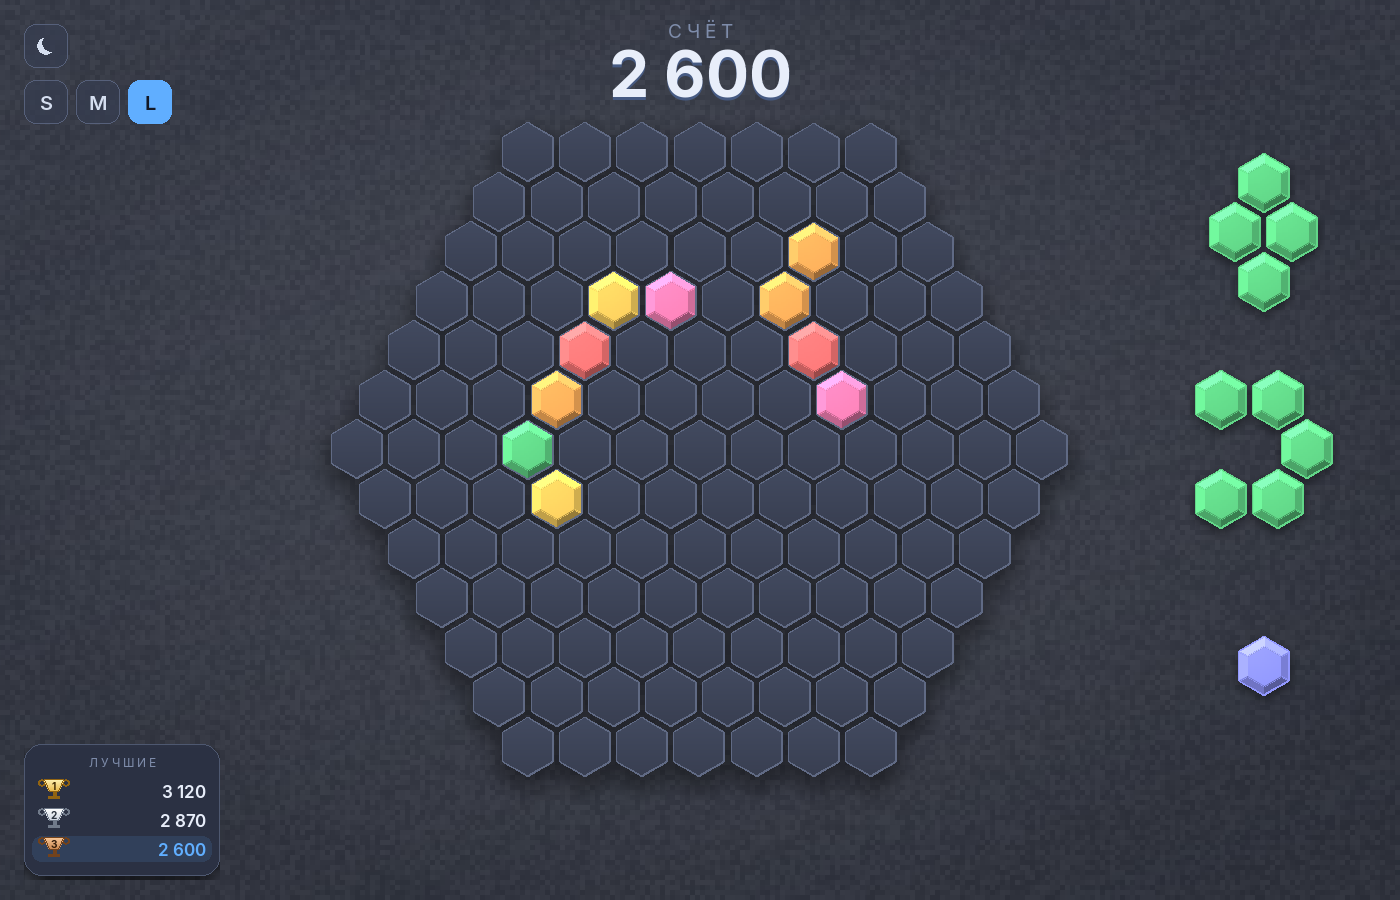
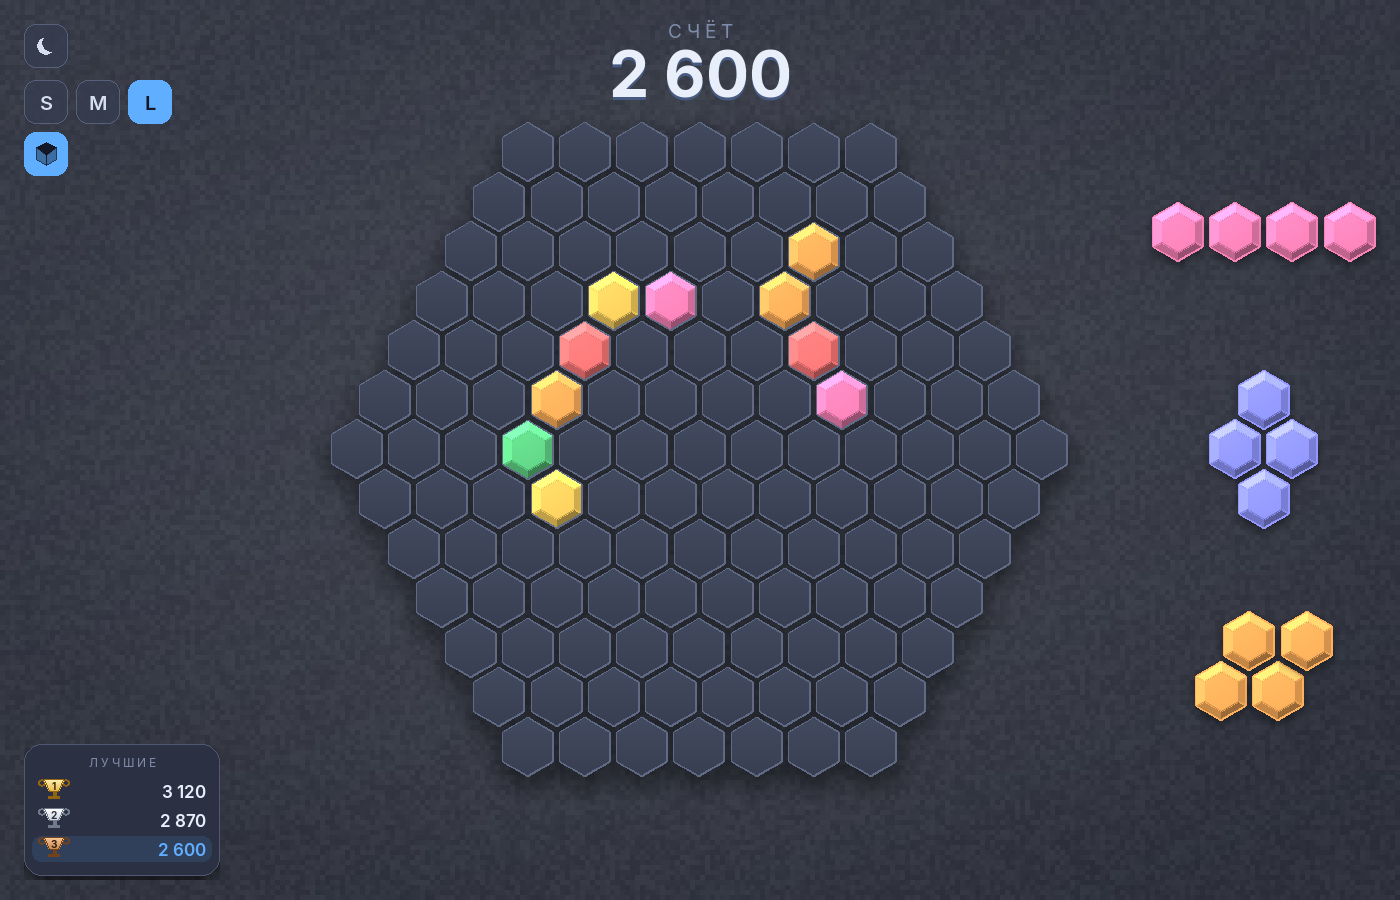
Кнопка переключения объёмных и плоских гексов
Объёмные гексы собираются втрое дороже плоских: купол и фаска рисуются
в спрайт при его сборке. На слабом ноутбуке это заметно — первый показ
фигуры в пуле даёт кадр около 12 мс вместо 7, а при переключении темы или
размера кэш собирается заново.

Под выбором размера поля появилась кнопка: куб означает объёмные гексы,
шестиугольник — прежние плоские. Партия не перезапускается, настройка
касается только картинки. Выбор сохраняется в preferences.json вместе
с темой и размером поля.

Настройка объёма переехала из константы settings.VOLUME_ENABLED в объект
config.volume по образцу board: раньше значение читалось один раз при
импорте, и переключить его на лету было нельзя. Ключ кэша спрайтов получил
режим оформления, иначе после переключения возвращались бы старые картинки.

Проверки: 224 кадра, включая переключение объёма посреди партии, сверены
с полной перерисовкой — следов нет; 12 партий с фиксированным seed дают
прежний результат (146 фигур); клик по кнопке проверен в настоящем
main.run() — режим меняется и сохраняется; сборка 180 спрайтов занимает
478 мс с объёмом против 323 мс без. Скриншоты и README обновлены.

diff --git a/classes.py b/classes.py
@@ -3,7 +3,7 @@ from copy import deepcopy
 from math import pi, sin, cos
 
 from settings import pg, W, H, HEX_MARGIN, D_PARAMS, FIGURES_DATA, BACKGROUND_STEP
-from config import board
+from config import board, volume
 from records import records
 from theme import theme
 from fonts import fonts
@@ -1214,6 +1214,98 @@ class Tab(Layer):
         caption = 'Новая игра' if action == 'new_game' else 'Выход'
         text = self._text(caption, self.button_font, text_color)
         self.surface.blit(text, text.get_rect(center=rect.center))
+
+
+class VolumeButton(Layer):
+    """Переключатель оформления гексов: объёмные или плоские.
+
+    Объёмные гексы рисуются с куполом и фаской — это красивее, но сборка
+    спрайта втрое дороже, а сам спрайт тяжелее для блита. На слабой машине
+    полезно вернуть прежний плоский вид, не трогая остальное оформление.
+
+    Кнопка стоит под выбором размера поля, в том же стиле.
+    """
+
+    SIZE = 44
+    MARGIN = 24
+    TOP = 132
+
+    def __init__(self, sc):
+        Layer.__init__(self, sc)
+        self.hovered = False
+        self.invalidate(self.bounds)
+
+    @property
+    def rect(self):
+        return pg.Rect(self.MARGIN, self.TOP, self.SIZE, self.SIZE)
+
+    @property
+    def bounds(self):
+        return self.rect.inflate(16, 16)
+
+    def hit(self, pos):
+        return self.rect.collidepoint(pos)
+
+    def set_hover(self, pos):
+        hovered = self.hit(pos)
+        if hovered != self.hovered:
+            self.hovered = hovered
+            self.invalidate(self.bounds)
+
+    def redraw(self, rect):
+        self.surface.fill((0, 0, 0, 0), rect)
+        if not rect.colliderect(self.bounds):
+            return
+
+        button = self.rect
+        active = volume.enabled
+        if active:
+            fill = theme['button_primary']
+            border = None
+            icon_color = theme['button_primary_text']
+        else:
+            fill = theme['theme_button_hover'] if self.hovered else theme['theme_button_fill']
+            border = theme['theme_button_border']
+            icon_color = theme['theme_button_icon']
+
+        pg.draw.rect(self.surface, fill, button, border_radius=12)
+        if border:
+            pg.draw.rect(self.surface, border, button, width=1, border_radius=12)
+
+        if active:
+            self._draw_cube(button.center, icon_color)
+        else:
+            self._draw_flat(button.center, icon_color)
+
+    def _draw_cube(self, center, color):
+        """Куб в изометрии: значок включённого объёма."""
+        cx, cy = center
+        size = 10
+        top = [(cx, cy - size - 2), (cx + size, cy - size / 2 - 2),
+               (cx, cy + 1), (cx - size, cy - size / 2 - 2)]
+        left = [(cx - size, cy - size / 2 - 2), (cx, cy + 1),
+                (cx, cy + size + 1), (cx - size, cy + size / 2)]
+        right = [(cx + size, cy - size / 2 - 2), (cx, cy + 1),
+                 (cx, cy + size + 1), (cx + size, cy + size / 2)]
+
+        pg.draw.polygon(self.surface, color, top)
+        # Боковые грани полупрозрачные: так куб читается даже одним цветом.
+        for face in (left, right):
+            layer = pg.Surface(self.rect.size, pg.SRCALPHA)
+            local = [(x - self.rect.x, y - self.rect.y) for x, y in face]
+            pg.draw.polygon(layer, (*color, 110), local)
+            pg.draw.polygon(layer, (*color, 200), local, 1)
+            self.surface.blit(layer, self.rect.topleft)
+
+    def _draw_flat(self, center, color):
+        """Плоский шестиугольник: значок выключенного объёма."""
+        cx, cy = center
+        radius = 12
+        points = []
+        for index in range(6):
+            angle = pi / 6 + index * pi / 3
+            points.append((cx + radius * cos(angle), cy - radius * sin(angle)))
+        pg.draw.polygon(self.surface, color, points, 2)
 
 
 class Leaderboard(Layer):

diff --git a/main.py b/main.py
@@ -5,10 +5,10 @@
 """
 from settings import pg, W, H, WINDOW_TITLE, FPS, GAME_MODE, FINAL_MODE
 from theme import theme, THEMES
-from config import board, load_preferences, save_preferences
+from config import board, volume, load_preferences, save_preferences
 from sprites import cache
 from classes import (Field, Pool, DragAndDrop, Background, Tab, Renderer,
-                     FxLayer, ThemeButton, SizeButton, Leaderboard)
+                     FxLayer, ThemeButton, SizeButton, Leaderboard, VolumeButton)
 from records import records
 
 
@@ -30,10 +30,16 @@ def apply_saved_preferences():
     saved_theme = prefs.get('theme')
     if saved_theme in THEMES:
         theme.current = THEMES[saved_theme]
+    if 'volume' in prefs:
+        volume.set(prefs['volume'])
 
 
 def store_preferences():
-    save_preferences({'board_size': board.size, 'theme': theme.name})
+    save_preferences({
+        'board_size': board.size,
+        'theme': theme.name,
+        'volume': volume.enabled,
+    })
 
 
 def run():
@@ -50,6 +56,7 @@ def run():
     fx = FxLayer(sc)
     theme_button = ThemeButton(sc)
     size_button = SizeButton(sc)
+    volume_button = VolumeButton(sc)
     leaderboard = Leaderboard(sc, tab)
 
     def build_layers():
@@ -60,7 +67,7 @@ def run():
         по её месту продолжали работать.
         """
         return [field, pool, drag_and_drop, fx, tab, leaderboard,
-                theme_button, size_button]
+                theme_button, size_button, volume_button]
 
     # Порядок слоёв задаёт порядок наложения: поле, пул, фигура под курсором,
     # эффекты, счёт и поверх всего кнопки в углу. Таблица лучших лежит над
@@ -111,6 +118,19 @@ def run():
         restart_game()
         store_preferences()
 
+    def switch_volume():
+        """Переключает объёмные гексы на плоские и обратно.
+
+        Партию не перезапускает: настройка касается только картинки, логика
+        и расстановка фигур остаются прежними. Спрайты собираются заново —
+        объём впечён в них при сборке, — поэтому кэш очищается.
+        """
+        volume.toggle()
+        cache.clear()
+        volume_button.invalidate(volume_button.bounds)
+        renderer.invalidate_all()
+        store_preferences()
+
     def quit_game():
         """Сохраняет таблицу рекордов и закрывает игру.
 
@@ -145,6 +165,7 @@ def run():
             if event.type == pg.MOUSEMOTION:
                 theme_button.set_hover(event.pos)
                 size_button.set_hover(event.pos)
+                volume_button.set_hover(event.pos)
 
             if event.type == pg.MOUSEBUTTONDOWN and event.button == pg.BUTTON_LEFT:
                 if theme_button.hit(event.pos):
@@ -153,6 +174,9 @@ def run():
                 size = size_button.hit(event.pos)
                 if size:
                     switch_size(size)
+                    continue
+                if volume_button.hit(event.pos):
+                    switch_volume()
                     continue
 
             if mode == GAME_MODE:

diff --git a/sprites.py b/sprites.py
@@ -9,9 +9,9 @@ import pygame as pg
 from math import cos, pi, sin, sqrt
 from pygame import gfxdraw
 
-from settings import (BORDER_WIDTH, HEX_MARGIN, VOLUME_DARK, VOLUME_ENABLED,
+from settings import (BORDER_WIDTH, HEX_MARGIN, VOLUME_DARK,
                       VOLUME_LIGHT, BEVEL_WIDTH, BEVEL_STRENGTH)
-from config import board
+from config import board, volume
 from utils import hexagon_points
 
 # Направление на источник света для фаски. Свет падает сверху-слева, как и
@@ -252,11 +252,10 @@ class SpriteCache:
         """
         quantized = self.quantize(scale)
         colored = state in ('figure', 'placed')
-        key = (theme.name, state, color_index if colored else None, quantized)
+        key = (theme.name, volume.name, state, color_index if colored else None, quantized)
         cached = self._cache.get(key)
         if cached is not None:
             return cached
-
         if state == 'placed':
             # Ячейка поля: обводка нейтральная, того же цвета, что у пустых
             # ячеек. Она не зависит от заливки, поэтому одинаково выглядит на
@@ -291,7 +290,7 @@ class SpriteCache:
             glow=glow,
             border_width=BORDER_WIDTH,
             # Объём получают только цветные гексы: 'placed' и 'figure'.
-            volume=VOLUME_ENABLED and state in ('placed', 'figure'),
+            volume=volume.enabled and state in ('placed', 'figure'),
         )
         self._cache[key] = sprite
         return sprite

diff --git a/config.py b/config.py
@@ -9,6 +9,8 @@ import json
 import os
 from math import cos, pi
 
+from settings import VOLUME_ENABLED
+
 BASE_DIR = os.path.dirname(os.path.abspath(__file__))
 PREFS_PATH = os.path.join(BASE_DIR, 'preferences.json')
 
@@ -58,6 +60,34 @@ class BoardConfig:
 
 
 board = BoardConfig()
+
+
+class VolumeConfig:
+    """Объёмные гексы: включены или выключены.
+
+    Объём рисуется в спрайты при их сборке, поэтому переключение требует
+    пересобрать кэш — это происходит один раз, а не каждый кадр. На слабых
+    машинах старые плоские гексы собираются втрое быстрее и заметно легче
+    для видеокарты: объёмный спрайт больше по площади из-за сглаженных
+    градиентов.
+    """
+
+    def __init__(self, enabled=VOLUME_ENABLED):
+        self.enabled = enabled
+
+    @property
+    def name(self):
+        return 'volume' if self.enabled else 'flat'
+
+    def toggle(self):
+        self.enabled = not self.enabled
+        return self.enabled
+
+    def set(self, enabled):
+        self.enabled = bool(enabled)
+
+
+volume = VolumeConfig()
 
 
 def load_preferences():
